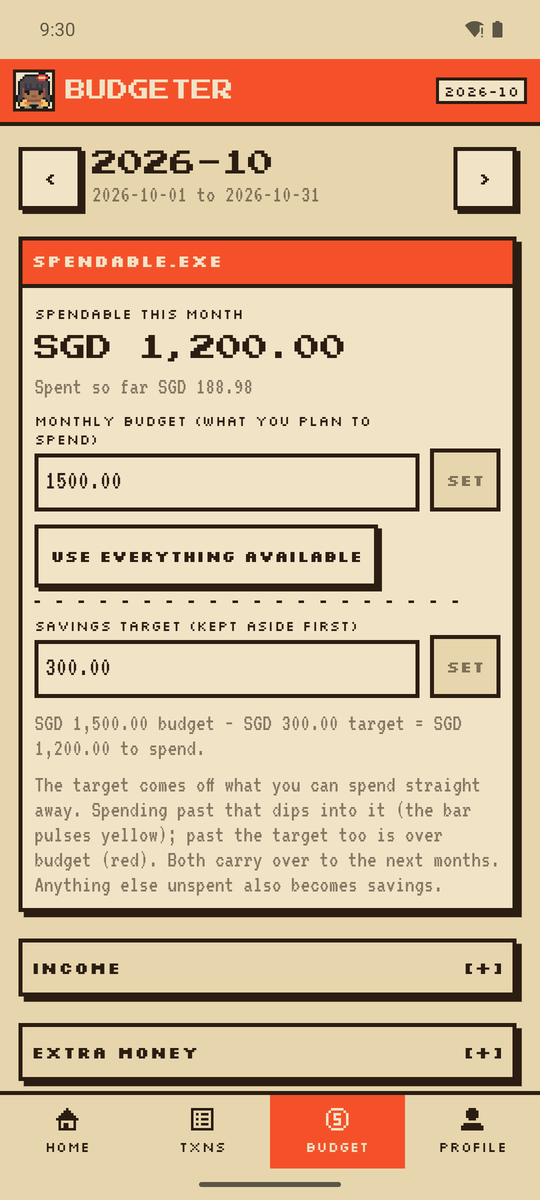
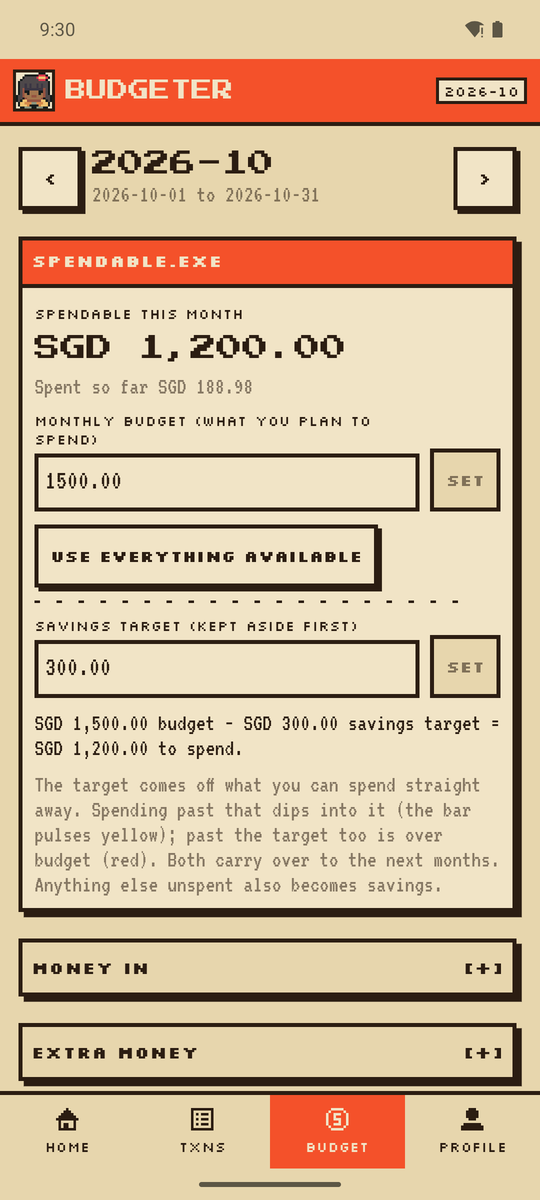
1.4.2: Income renamed to Money in; retaken Home, Budget and widget screenshots

diff --git a/app/src/main/java/com/nyxulrix/budgeter/ui/BudgetScreen.kt b/app/src/main/java/com/nyxulrix/budgeter/ui/BudgetScreen.kt
@@ -168,9 +168,9 @@ private fun BudgetWindow(st: AppState, key: String, plan: Plan, cur: String) {
 private fun IncomeWindow(key: String, plan: Plan, cur: String) {
     var text by remember(key, plan.income) { mutableStateOf(plain(plan.income, cur)) }
     val v = parseMoney(text, cur)
-    FoldWindow("Income") {
+    FoldWindow("Money in") {
         Row(verticalAlignment = Alignment.Bottom, horizontalArrangement = Arrangement.spacedBy(8.dp)) {
-            PixelField(text, { text = it }, "Monthly income / allowance", Modifier.weight(1f), keyboard = KeyboardType.Decimal,
+            PixelField(text, { text = it }, "Money in each month (pay, allowance)", Modifier.weight(1f), keyboard = KeyboardType.Decimal,
                 error = if (v == null) "Not a number" else null)
             PixelButton("Set", { App.store.editPlan(key) { it.copy(income = v!!) } }, enabled = v != null && v != plan.income)
         }

diff --git a/app/src/main/java/com/nyxulrix/budgeter/ui/SetupScreen.kt b/app/src/main/java/com/nyxulrix/budgeter/ui/SetupScreen.kt
@@ -81,7 +81,7 @@ fun SetupScreen(existing: Setup?) {
                 keyboard = KeyboardType.Number, error = if (dayOk) null else "Pick a day from 1 to 28")
             Small("Use your payday if you're paid mid-month.")
             if (first) {
-                PixelField(income, { income = it }, "Monthly income or allowance ($currency)", keyboard = KeyboardType.Decimal,
+                PixelField(income, { income = it }, "Money in each month: pay, allowance ($currency)", keyboard = KeyboardType.Decimal,
                     placeholder = "0.00", error = if (incomeMinor == null) "Not a number" else null)
                 PixelField(balance, { balance = it }, "Money you have now (optional)", keyboard = KeyboardType.Decimal,
                     placeholder = "0.00", error = if (balanceMinor == null) "Not a number" else null)
